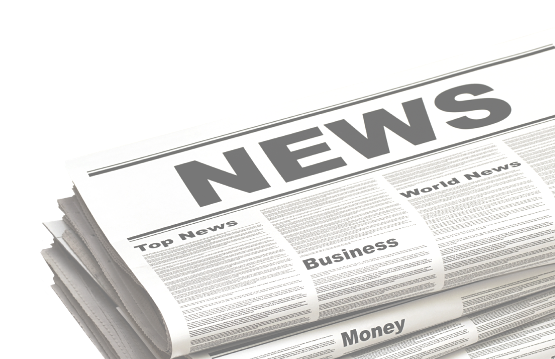
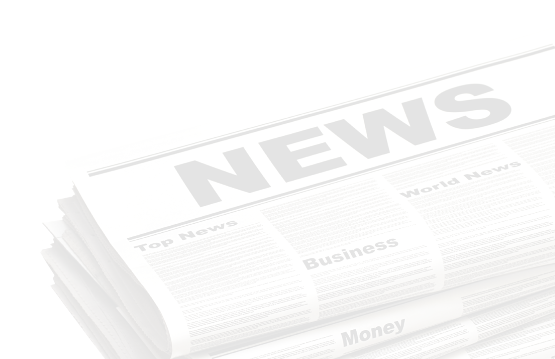
Signup form styling changed

diff --git a/src/scenes/Auth/Signup/styles.scss b/src/scenes/Auth/Signup/styles.scss
@@ -3,7 +3,7 @@
 @import "./../../../assets/styles/variables";
 
 .BodySignup {
-  background: $gray-200 url(./../../../assets/images/newspaper.png) no-repeat bottom right;
+  background: $white url(./../../../assets/images/newspaper.png) no-repeat bottom right;
 }
 
 .Signup {
@@ -16,12 +16,11 @@
   }
 
   &-dialog {
-    //background: $white;
+    background: $gray-200;
     display: flex;
     align-self: center;
     padding: 55px 40px 40px 40px;
-    //box-shadow: 0 14px 30px rgba(0,0,0,.07), 0 3px 6px rgba(0,0,0,.07);
-    //border:1px solid $gray-300;
+    box-shadow: 0 14px 30px rgba(0,0,0,.07), 0 3px 6px rgba(0,0,0,.07);
     width: 29em;
     max-width: 90%;
     border-radius: 5px;
